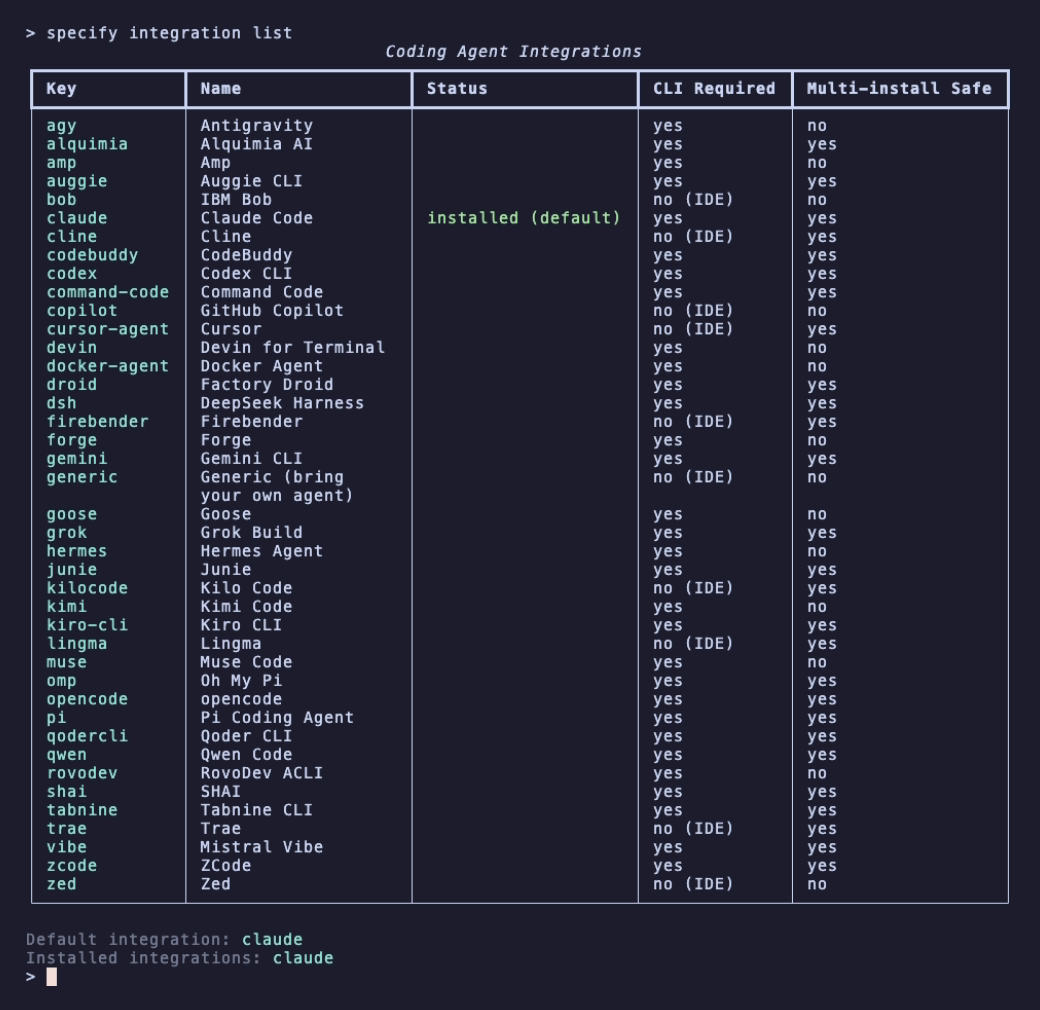
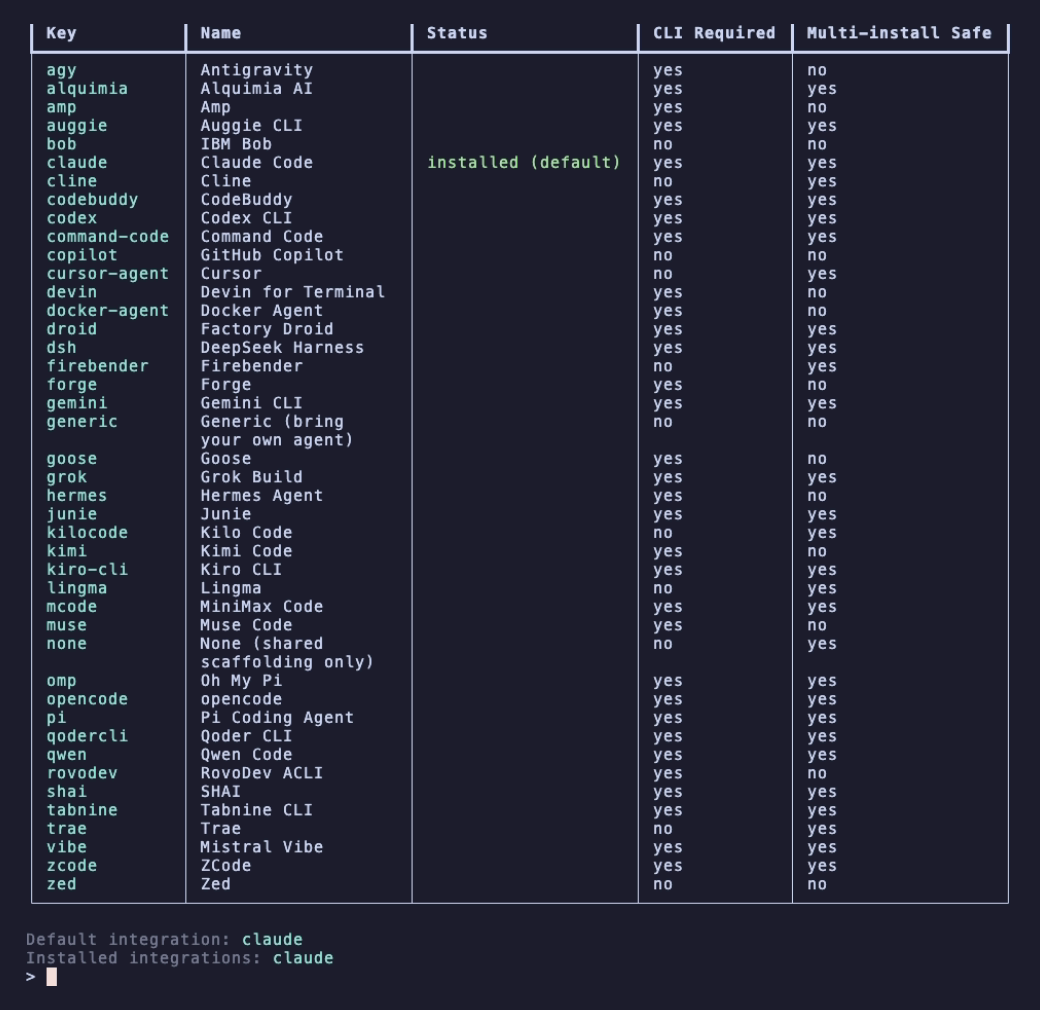
docs(readme): re-record pictures for 2.1.1 (spec-kit 1.2.5, 43 integrations)

diff --git a/README.md b/README.md
@@ -46,7 +46,7 @@ specify integration status
 
 `specify status` and `specify doctor` (specify-cli additions) summarize and check a project:
 
-<img src="https://raw.githubusercontent.com/oakoliver/specify-cli/main/assets/status.png" width="560" alt="specify status: project root, integration claude, scripts sh, initialized and CLI version 2.0.0 with spec-kit 1.0.12 parity, one healthy claude integration with 10 files, no extensions or presets, one installed workflow and one memory file">
+<img src="https://raw.githubusercontent.com/oakoliver/specify-cli/main/assets/status.png" width="560" alt="specify status: project root, integration claude, scripts sh, initialized and CLI version 2.1.1 with spec-kit 1.2.5 parity, one healthy claude integration with 10 files, no extensions or presets, one installed workflow and one memory file">
 
 <img src="https://raw.githubusercontent.com/oakoliver/specify-cli/main/assets/doctor.png" width="560" alt="specify doctor: checks for the project, its template, script and memory directories, the saved init options, the claude integration's tracked files, extensions and presets, and a warning that the project has no git repository">
 
@@ -538,11 +538,11 @@ Creates `checklists/security.md`:
 
 Without `--integration`, `specify init` asks which one to use. The picker scrolls to fit the terminal:
 
-<img src="https://raw.githubusercontent.com/oakoliver/specify-cli/main/assets/picker.gif" width="560" alt="specify init my-app in an 80 by 24 terminal: the integration picker shows 15 of 41 integrations with more-above and more-below counts, scrolls down to gemini and back up to claude, then the script picker and the Project ready panels">
+<img src="https://raw.githubusercontent.com/oakoliver/specify-cli/main/assets/picker.gif" width="560" alt="specify init my-app in an 80 by 24 terminal: the integration picker shows 15 of 43 integrations with more-above and more-below counts, scrolls down to gemini and back up to claude, then the script picker and the Project ready panels">
 
 `specify integration list` shows them all, and which are installed in a project:
 
-<img src="https://raw.githubusercontent.com/oakoliver/specify-cli/main/assets/integrations.png" width="640" alt="specify integration list: a table of all 41 integrations with name, status, whether a CLI is required and whether multiple installs are safe; claude is installed and the default">
+<img src="https://raw.githubusercontent.com/oakoliver/specify-cli/main/assets/integrations.png" width="640" alt="specify integration list: a table of all 43 integrations with name, status, whether a CLI is required and whether multiple installs are safe; claude is installed and the default">
 
 | Key | Agent | Commands / skills directory | Format |
 |-----|-------|-----------------------------|--------|
@@ -594,7 +594,7 @@ Without `--integration`, `specify init` asks which one to use. The picker scroll
 
 ## CLI Reference
 
-<img src="https://raw.githubusercontent.com/oakoliver/specify-cli/main/assets/help.png" width="560" alt="specify --help: the SPECIFY banner, usage, options, and the thirteen commands from init to status">
+<img src="https://raw.githubusercontent.com/oakoliver/specify-cli/main/assets/help.png" width="560" alt="specify --help: the SPECIFY banner, usage, options, and the fourteen commands from init to status">
 
 ```text
 specify init [PROJECT_NAME]   Initialize a new Specify project
